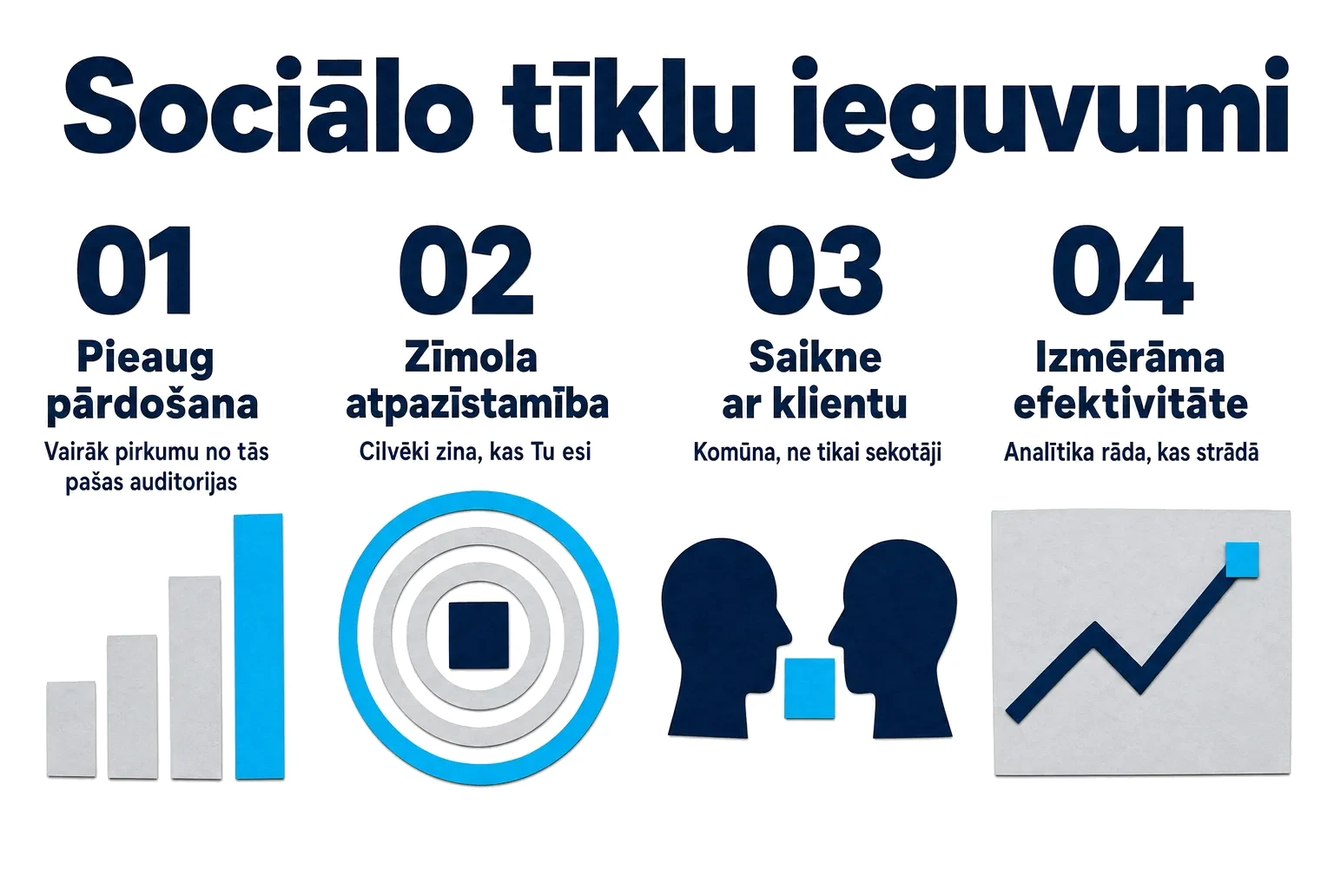
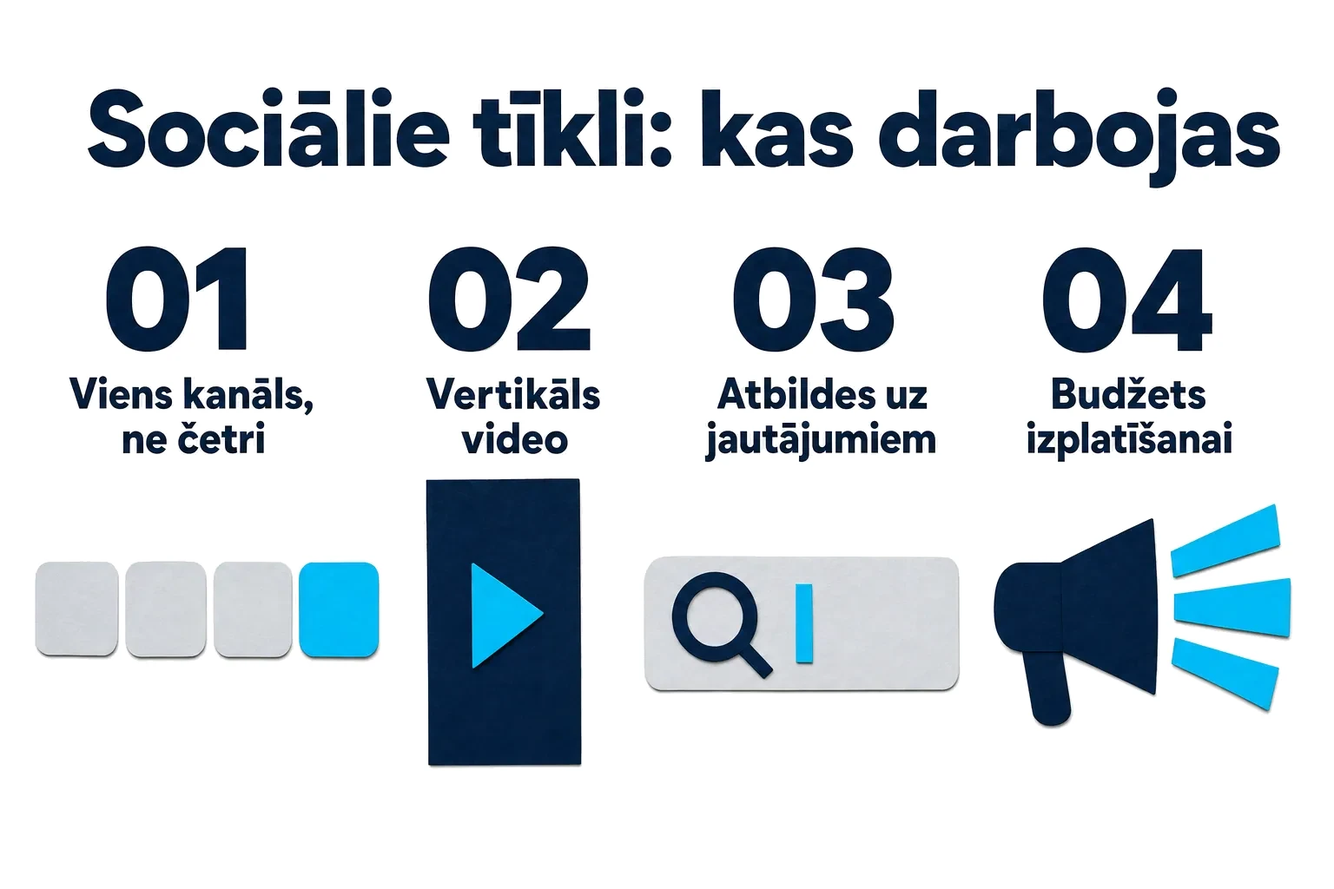
Social media pair rewritten around the reach that no longer exists
Both were written when posting regularly still reached your followers. The
honest 2026 version leads with the opposite: platforms limit organic
distribution on purpose, so a post without budget reaches a fraction even
of the people who chose to follow you, and follower count is a number on a
profile rather than an audience you can use.

socialie-tikli becomes a channel decision: pick ONE network rather than
four half-tended profiles, the three things that still travel without
budget (vertical video, answers to real questions, replying in DMs), and a
monthly minimum that is smaller than most content plans recommend and
larger than most businesses actually do.

vai-manam-biznesam keeps its honest two-sided shape and gets a real answer
of 'not yet': very narrow B2B, trades people search for rather than scroll
past, nobody with hours to spare, and a site that does not convert yet.
Its course link pointed at the general course hub while calling itself the
Facebook and Instagram course; it now goes to the Meta course.

diff --git a/src/posts/socialie-tikli.md b/src/posts/socialie-tikli.md
@@ -2,93 +2,84 @@
 layout: post.njk
 title: "Sociālie tīkli - mārketinga veiksmes atslēga"
 seoTitle: "Sociālie tīkli - mārketinga veiksmes atslēga | Mārketinga Skola"
-description: "Kādēļ sociālie tīkli ir tik plaši izmantoti? Vai Tavam biznesam nepieciešami sociālie tīkli? Uz šiem jautājumiem atbildēsim šajā rakstā."
+description: "Sociālie tīkli 2026. gadā: kāpēc organiskais sasniegums vairs nepietiek, kurš viens kanāls Tev vajadzīgs un kāds ir praktiskais minimums mēnesī."
 date: 2024-03-20
-updated: 2024-10-21
+updated: 2026-09-05
 image: "/img/gen/cover-socialie-tikli.webp"
 legacyImage: "/img/2024/03/16.jpg"
 categories: ["socialo-tiklu-reklama"]
 permalink: "/socialie-tikli/"
-keywords: ["sociālie tīkli", "sociālo tīklu mārketings", "maksas reklāmas", "zīmola atpazīstamība"]
+keywords: ["sociālo tīklu mārketings", "organiskais sasniegums", "Instagram", "Facebook", "vertikāls video"]
 
 ---
 
-Sociālie tīkli ir 21.gadsimta mārketinga fenomens.
+Sociālie tīkli joprojām ir vieta, kur Latvijas uzņēmumi atrod klientus. Mainījies ir veids, kā tas notiek.
 
-Ne velti vairāk nekā puse visu Eiropas Savienības uzņēmumu tos izmanto.
+Vēl pirms dažiem gadiem pietika publicēt regulāri, un daļa sekotāju ierakstus redzēja. Šodien bezmaksas sasniedzamība ir tik maza, ka ieraksts bez apmaksātas izplatīšanas parasti nonāk tikai pie nelielas daļas sekotāju. Sekotāju skaits vairs nav resurss, ko vari droši izmantot. Tas ir tikai skaitlis profilā.
 
-Tiek prognozēts, ka 2025.gadā sociālos tīklus izmantos jau 5,1 miljards cilvēku no visas pasaules populācijas jeb ~8 miljardiem cilvēku.
+Šis raksts ir par to, ko tas nozīmē praksē: kurš kanāls Tev tiešām vajadzīgs, kas vēl darbojas bez budžeta un kur budžets ir neizbēgams.
 
-Skaitļi runā paši par sevi, vai ne?
+## Vai Tavam biznesam vajag sociālos tīklus
 
-Kur gan ir āķis? Kādēļ sociālie tīkli un arī to sniegtā maksas reklāmu iespēja ir tik plaši izmantota? Vai un kāpēc Tavam biznesam nepieciešami sociālie tīkli?
+Godīgā atbilde ir "ne visiem un ne visus kanālus".
 
-Uz šiem jautājumiem atbildēsim šajā rakstā.
+Sociālie tīkli strādā labi, ja Tavu produktu var parādīt, ja pirkuma lēmums ir salīdzinoši ātrs un ja klients ir plaša auditorija. Piemēram, restorāni, skaistumkopšana, e-veikali, kursi, remontdarbi un vietējie pakalpojumi.
 
-## Vai Tavam biznesam nepieciešami sociālie tīkli?
+Tie strādā vājāk, ja pārdod ļoti šauram profesionāļu lokam, ja pārdošanas cikls ir garš un ja lēmumu pieņem vairāki cilvēki. Tad meklētājprogramma, ieteikumi un tieša uzruna parasti dod vairāk. Par šādām situācijām vairāk rakstā [vai manam biznesam nepieciešams sociālo tīklu mārketings](/vai-manam-biznesam-nepieciesams-socialo-tiklu-marketings/).
 
-Vairākumā gadījumu mūsu atbilde būs: **Jā**, Tavam biznesam ir nepieciešama sociālo tīklu izmantošana.
+## Izvēlies vienu kanālu, nevis četrus
 
-Kādi būs izņēmuma gadījumi?
+Biežākā maza uzņēmuma kļūda ir mēģināt būt visur. Rezultāts ir četri pusaizmirsti profili, no kuriem neviens īsti nestrādā.
 
-Sociālo tīklu izmantošanu kā prioritāti sava biznesa izaugsmei **neiesakām** izmantot tiem uzņēmumiem, kas zina, ka atbildes uz šiem diviem jautājumiem nebūs apstiprinošas:
+Praktiskā izvēle Latvijā:
 
-- Vai sociālajos tīklos ir atrodams Tavs mērķa klients?
+- **Instagram** ir pirmā izvēle, ja produktu var parādīt.
+- **Facebook** joprojām ir spēcīgs plašākai un vecākai auditorijai, vietējiem pakalpojumiem un grupām.
+- **TikTok** ir vērts izmantot, ja vari regulāri filmēt īsus video un Tava auditorija ir jaunāka.
+- **LinkedIn** ir piemērots tikai B2B un darbinieku piesaistei.
 
-- Vai ir veikta mērķtirgus izpēte, kas pierāda, ka Tavs produkts vai pakalpojums ir pieprasīts un ka ir vērts investēt tā mārketingā?
+Izvēlies vienu kanālu, kur Tava auditorija tiešām ir, un strādā ar to kārtīgi. Otro pievieno tad, kad pirmais jau dod rezultātu.
 
-Ja uz pirmo jautājumu atbilde ir apstiprinoša, tad (pirms sociālo tīklu kontu izveides) iesakām veikt izpēti un noskaidrot tieši kuri sociālie tīkli ir piesaistījuši Tavu mērķa klientu uzmanību.
+## Kas vēl darbojas bez budžeta
 
-Ir nerakstīts likums mārketinga pasaulē, ko mēs tomēr uzdrošināsimies uzrakstīt: _“Esi tur, kur ir Tavs klients. Ja nebūsi, tad Tavā vietā ātri vien ienāks kāds cits.”_
+Trīs lietas joprojām palīdz sasniegt cilvēkus bez maksas.
 
-Ir liela iespēja, ka Tavs mērķa klients atrodams kādā no pašlaik [pasaulē izmantotākajām](https://umaine.edu/undiscoveredmaine/small-business/resources/marketing-for-small-business/social-media-tools/social-media-statistics-details/) sociālo tīklu platformām: _Facebook, Youtube_ vai _Instagram_. Varbūt arī _TikTok_, ko jau sen vairs neizmanto tikai jaunieši, bet arī vecākas paaudzes auditorija.
+**Īsi vertikāli video.** Tas ir vienīgais formāts, ko platformas joprojām aktīvi rāda cilvēkiem ārpus Taviem sekotājiem. Par to vairāk rakstā [Instagram Reels mārketingam](/instagram-reels-marketingam/).
 
-## Sociālie tīkli kā uzņēmumu vizītkarte
+**Saturs, kas atbild uz reālu jautājumu.** Cilvēki arvien biežāk meklē informāciju tieši sociālajos tīklos, nevis meklētājprogrammā. Ierakstu, kas atbild uz konkrētu jautājumu, var atrast vēl mēnešus vēlāk.
 
-Sociālie tīkli ir ne tikai digitālā mārketinga atslēga, bet arī uzņēmumu vizītkarte. Tas nozīme, ka tā ir vizītkarte ne tikai klientiem, bet arī medijiem, potenciālajiem darbiniekiem un pat konkurentiem.
+**Sarunas komentāros un ziņās.** To nevar viegli palielināt, bet mazam uzņēmumam tieši šeit bieži rodas klienti. Atbilde piecās minūtēs ir vērtīgāka par vēl vienu publikāciju.
 
-Sociālie tīkli paver brīnišķīgu iespēju atainot uzņēmumu sev vēlamā gaismā, piemēram, parādot vērtības, izstāstot zīmola stāstu, parādot sociālās atbildības aktivitātes un vēl, un vēl.. Mēs iesakām attīstīt savu zīmola tēlu sociālajos tīklus jau **tagad**, jo..
-
-Statistika jau vēsta, ka vairāk nekā 50% darba meklētāju, lai uzzinātu vairāk par savu potenciālo darbavietu, vienkārši apskata uzņēmuma sociālo tīklu kontu. Daudzi arī atrod sev vēlamo vakanci tieši caur sociālajiem tīkliem.
-
-Sociālie tīkli var būt pirmais iespaids, ko cilvēks gūst par uzņēmumu, tāpēc ir būtiski šo iespaidu veidot pozitīvu.
-
-## Sociālo tīklu ieguvumi mārketingā
-
-Lūk, vien daži no sociālo tīklu mārketinga ieguvumiem, ko esam paši pieredzējuši, palīdzot klientiem:
-
-- Pieaug pārdošanas apjomi;
-- Palielinās zīmola atpazīstamība;
-- Izveidojas saikne ar klientu, veicinot lojalitāti zīmolam;
-- Ievērojami uzlabojas mārketinga aktivitāšu efektivitāte, jo ar analītikas rīkiem tiek izvērtēti mārketinga rezultāti un veikti nepieciešamie uzlabojumi.
-
-Būtisks trumpis šajos ieguvumos ir **maksas reklāmas**.
-
-{% infographic { id: "info-socialo-tiklu-ieguvumi", title: "Sociālo tīklu ieguvumi", items: [
- { label: "Pieaug pārdošana", text: "Vairāk pirkumu no tās pašas auditorijas." },
- { label: "Zīmola atpazīstamība", text: "Cilvēki zina, kas Tu esi." },
- { label: "Saikne ar klientu", text: "Komūna, ne tikai sekotāji." },
- { label: "Izmērāma efektivitāte", text: "Analītika rāda, kas strādā." }
+{% infographic { id: "info-socialo-tiklu-ieguvumi", title: "Sociālie tīkli: kas darbojas 2026. gadā", items: [
+ { label: "Viens kanāls, ne četri", text: "Divi pusaizmirsti profili nedod neko." },
+ { label: "Vertikāls video", text: "Vienīgais formāts ar organisko sasniegumu." },
+ { label: "Atbildes uz jautājumiem", text: "Cilvēki meklē arī sociālajos tīklos." },
+ { label: "Budžets izplatīšanai", text: "Bez tā redz tikai daļa sekotāju." }
 ] } %}
 
-## Kāpēc maksas reklāmas?
+## Kāpēc maksas reklāma nav izvēle, bet nosacījums
 
-Ja vēlies veicināt pārdošanas apjomus un klientu pieplūdumu, maksas reklāmas ir Tavs risinājums.
+Šī ir daļa, ko negribas dzirdēt, bet tā ir patiesa: sociālo tīklu platformas ir reklāmas uzņēmumi. Tāpēc bezmaksas izplatīšana tajās ir apzināti ierobežota.
 
-Šis risinājums īstenībā piemērots visiem, kuru auditorija atrodama sociālajos tīklos. Tas ir lielisks mārketinga instruments, jo ir izmantojams ar jebkādu budžeta apjomu un ļauj ātri izvērtēt reklāmas efektivitāti.
+Praksē tas nozīmē, ka labs saturs bez budžeta sasniedz tikai dažus, bet tas pats saturs ar nelielu budžetu sasniedz cilvēkus, kuri tiešām var nopirkt. Nav jāsāk ar lielām summām. Desmit līdz divdesmit eiro dienā vienam mērķim Latvijā ir reāls sākums.
 
-Ne velti 2023.gadā sociālo tīklu maksas reklāmu izdevumi sastādījuši 270 miljardus ASV dolāru un mārketinga pētnieki prognozē, ka 2024.gadā jau tiks pārsniegts 300 miljardu slieksnis.
+Svarīgi arī tas, ka maksas reklāma ļauj mērīt rezultātu. Bezmaksas publikācija parāda patīk atzīmes un komentārus. Reklāma parāda, cik maksāja viens klients. Tikai otrais skaitlis palīdz pieņemt lēmumus.
 
-Sociālie tīkli, reģistrējot lietotājus, ievāc par tiem noderīgu informāciju, kā vecums, dzimums, dzīvesvieta, intereses, un šie dati nodrošina to, ka ar maksas reklāmām var viegli sasniegt savu mērķa klientu.
+Kā to uzstādīt no nulles, aprakstīts rakstā [Facebook reklāmas: kā reklamēt savu biznesu internetā](/facebook-reklamas-izstrade/), bet budžeta puse rakstā [cik maksā reklāma Facebook](/cik-maksa-reklama-facebook/).
 
-Problēma gan rodas brīdī, kad maksas reklāmu dažādās detaļas raisa apjukumu un pietrūkst zināšanu, lai šīs reklāmas veidotu efektīvas.
+## Praktiskais minimums mēnesī
 
-Bieži vien šī apjukuma un zināšanu trūkuma dēļ no maksas reklāmām netiek gūta peļņa.
+Ja resursu ir maz, dari šo un neko vairāk:
 
-Lai tas nenotiktu ar Tevi, rosinām veltīt laiku zināšanu paplašināšanai, apgūstot maksas reklāmas. Tā būs vērtīga ilgtermiņa investīcija biznesa izaugsmē.
+- viens kanāls;
+- četri līdz astoņi ieraksti mēnesī, no kuriem vismaz puse ir vertikāli video;
+- viena aktīva reklāmas kampaņa ar trim līdz pieciem atšķirīgiem materiāliem;
+- atbildes uz ziņām tajā pašā dienā.
 
-## Mārketinga skolas piedāvājums
+Tas ir mazāk, nekā iesaka lielākā daļa satura plānu, un vairāk, nekā izdara lielākā daļa uzņēmumu.
 
-[Sociālie tīkli ir mārketinga atslēga](/vai-manam-biznesam-nepieciesams-socialo-tiklu-marketings/), kas uzņēmumiem, kuri spēj sociālos tīklus profesionāli izmantot savā labā, palielina peļņu, klientu skaitu un atpazīstamību. Esi viens no viņiem!
+## Nākamais solis
 
-Mēs Mārketinga skola iesakām Tev apsvērt iespēju pieteikties mūsu [Facebook un Instagram reklāmas kursam](/digitala-marketinga-kursi/), kur soli pa solim apgūsi kampaņu uzstādīšanu, mērķauditorijas atlasi un rezultātu analīzi.
+Ja gribi iemācīties reklāmas daļu pats, strādājot savā kontā, tam ir domāts [Meta reklāmas kurss](/meta-reklamas-kurss/): trīs stundas tiešsaistē, mazā grupā.
+
+Ja gribi, lai kampaņas veido un uztur kāds cits, apskati [Facebook un Instagram reklāmas pakalpojumu](/facebook-reklama/). Ja vēl neesi drošs, kurš kanāls Tavā situācijā ir pareizais, to var izrunāt [individuālā konsultācijā](/marketinga-konsultacijas/).

diff --git a/src/posts/vai-manam-biznesam-nepieciesams-socialo-tiklu-marketings.md b/src/posts/vai-manam-biznesam-nepieciesams-socialo-tiklu-marketings.md
@@ -2,9 +2,9 @@
 layout: post.njk
 title: "Vai manam biznesam nepieciešams sociālo tīklu mārketings?"
 seoTitle: "Vai manam biznesam nepieciešams sociālo tīklu mārketings? | Mārketinga Skola"
-description: "Vai biznesam nepieciešams sociālo tīklu mārketings? Noskaidro, kādas priekšrocības paver sociālo tīklu izmantošana!"
+description: "Godīga atbilde uz jautājumu, vai Tavam biznesam vajag sociālo tīklu mārketingu: kad tas atmaksājas, kad nauda labāk der citur un ar ko sākt."
 date: 2022-03-08
-updated: 2024-10-21
+updated: 2026-09-05
 image: "/img/gen/cover-vai-manam-biznesam-nepieciesams-socialo-tiklu-marketings.webp"
 legacyImage: "/img/2022/03/6.jpg"
 categories: ["socialo-tiklu-reklama"]
@@ -13,89 +13,70 @@ keywords: ["sociālo tīklu mārketings", "sociālie tīkli biznesam", "analīti
 
 ---
 
-Daudziem uzņēmējiem šķiet, ka sociālo tīklu mārketings nav piemērots viņu uzņēmumam, jo sociālos tīklus taču izmanto tikai jaunieši.
+Uz šo jautājumu parasti atbild ar "protams, jā". Godīga atbilde ir garāka, un dažiem uzņēmumiem tā ir "nē, vismaz ne tagad".
 
-Tas ir absolūts mīts, kuru vēlamies apgāzt.
+Sociālo tīklu mārketingam vajag divus resursus: laiku saturam un budžetu izplatīšanai. Ja nav ne viena, ne otra, rezultāts ir profils, kas izskatās pamests. Tas ir sliktāk nekā nekāds profils.
 
-**Pirmkārt,** mūsdienās sociālos medijus izmanto pilnībā visi – pat mājdzīvniekiem mēdz būt konti sociālājos tīklos.
+Šis raksts palīdzēs saprast, kurā pusē Tu esi.
 
-**Otrkārt,** daudzi uzņēmēji vienkārši negrib atzīt, ka sociālo tīklu mārketings viņiem ir pārāk sarežģīts un neizprotams digitālā mārketinga rīks.
+## Kas ir sociālo tīklu mārketings šodien
 
-**Treškārt,** uzņēmumam ir nepieciešama precīzi izplānota sociālo tīklu mārketinga stratēģija, lai sasniegtu savus uzņēmējdarbības mērķus. Vienaldzība un vienkārša cerība, ka tiks sasniegti vēlamie mārketinga rezultāti nav efektīvs veids, kā attīstīt mārketingu.
+Tas vairs nav "publicēt regulāri un audzēt sekotājus". Platformas apzināti ierobežo organisko sasniedzamību, tāpēc publikācija bez budžeta parasti sasniedz tikai nelielu daļu pat no Taviem sekotājiem.
 
-Šajā bloga rakstā vēlamies Tevi iepazīstināt ar sociālo tīklu mārketinga pasauli un parādīt tās gaišo pusi un arī tumšo, jo tāda, gluži kā visiem digitālā mārketinga rīkiem, pastāv arī sociālajiem tīkliem.
+Praksē sociālo tīklu mārketings sastāv no trim daļām: satura, maksas izplatīšanas un sarunām ar cilvēkiem, kuri atsaucas. Ja kādas daļas trūkst, pārējās strādā daudz vājāk.
 
-## Kas ir sociālo tīklu mārketings?
+## Kad atbilde ir "jā"
 
-Pavisam vienkārši: sociālo tīklu mārketings ir sociālo mediju platformu izmantošana, lai reklamētu un tirgotu uzņēmuma produktus un pakalpojumus.
+Sociālo tīklu mārketings atmaksājas, ja vismaz trīs no šiem apgalvojumiem par Tevi ir patiesi:
 
-Sociālo tīklu mārketings ir patiešām efektīvs veids, kā dažāda lieluma uzņēmumiem sasniegt potenciālos un jau esošos klientus, jo teju visi mūsdienās izmanto sociālos tīklus.
+- produktu vai rezultātu var parādīt attēlā vai video;
+- pirkuma lēmumu cilvēks pieņem dienās, nevis mēnešos;
+- Tavi klienti ir plaša auditorija, nevis šaurs profesionāļu loks;
+- vari atvēlēt vismaz desmit līdz divdesmit eiro dienā reklāmai;
+- kāds uzņēmumā spēj katru nedēļu uzfilmēt dažus īsus video;
+- uz ziņām spējat atbildēt tajā pašā dienā.
 
-## Sociālo tīklu mārketinga gaišā puse
+Ja piekrīti gandrīz visiem punktiem, šis kanāls Tev der. Ar ko sākt, aprakstīts rakstā [sociālie tīkli: mārketinga veiksmes atslēga](/socialie-tikli/).
 
-### Popularitāte
+## Kad atbilde ir "vēl ne"
 
-Sociālo plašsaziņas līdzekļu lietotāju kopējais skaits katru gadu pieaug, un paredzams, ka to skaits turpinās palielināties. Lai skaitļi runā paši par sevi:
+Ir situācijas, kurās nauda un laiks labāk atmaksājas citur.
 
-Instagram ir vairāk kā **2 miljardi** aktīvu lietotāju katru mēnesi
+**Ja pārdod ļoti šauram lokam.** Piecdesmit potenciālie klienti Latvijā nav auditorija, ko meklēt ziņu plūsmā. Tieša uzruna un ieteikumi dod vairāk.
 
-Facebook ir populārākā sociālo mediju platforma ar **2,9 miljardiem** lietotāju
+**Ja klients Tevi meklē pats.** Santehniķis, jurists, autoserviss. Cilvēks ar problēmu iet uz meklētāju, nevis ritina Instagram. Sāc ar [SEO](/kas-ir-seo/) un [Google reklāmu](/google-reklama-2025/).
 
-LinkedIn ir aptuveni **950 miljoni** lietotāju
+**Ja nav neviena, kas to darīs.** Sociālo tīklu profils nav vienreizējs projekts. Ja neviens nevar tam veltīt dažas stundas nedēļā, labāk to nesākt vispār.
 
-Sociālo tīklu popularitātes dēļ:
+**Ja mājaslapa vēl nepārdod.** Reklāma tikai ātrāk atved cilvēkus uz lapu, kas nekonvertē. Vispirms sakārto galamērķi, pēc tam domā par plūsmu.
 
-- Pieaug pārdošanas apjomi
-- Palielinās zīmola atpazīstamība
-- Pieaug gan uzticamu, gan jaunu klientu skaits
-- Var viegli uzrunāt savu mērķauditoriju, izmantojot, piemēram, Facebook reklāmas, ar kurām var precīzi mērķēt uz saviem potenciālajiem klientiem
-
-### Analītikas rīki
-
-Sociālo tīklu mārketings paver iespēju izsekot tam, cik efektīva ir bijusi reklāmas kampaņa un saprast, vai šāda reklāma un sociālo tīklu mārketinga stratēģija strādās arī turpmāk.
-
-Daudzās sociālo mediju platformās ir jau iebūvēti analītikas rīki. Izmantojot Instagram ieskatus _(insights)_, ir iespējams redzēt savu sekotāju demogrāfisko sadalījumu, kas ietver vecumu, dzimumu, atrašanās vietu un aktīvākās stundas, kas pavadītas sociālajos medijos.
-
-### Saikne ar klientu
-
-Sociālo tīklu mārketings ir brīnišķīga iespēja, kā veidot savu sekotāju komūnu digitālajā vidē, iepazīt tuvāk savu mērķauditoriju un attiecīgi palielināt arī klientu apmierinātību.
-
-Daudzi uzņēmumi, piemēram, Instagramā izmanto storiju funkcijas, lai veidotu saikni ar klientiem. Storijos uzņēmumi sekotājiem atbild uz dažādiem jautājumiem vai parāda, piemēram, produktu ražošanas procesu, sniedzot vērtīgu un neformālu ieskatu sava uzņēmuma darbībā.
-
-Protams, uzņēmumi arī izmanto to, ka sociālajos tīklos var uzsākt komunikāciju ar saviem klientiem. Uzņēmumi var uzdot dažādus jautājumus saviem sekotājiem, un tas ļoti palīdz veidot ne tikai saikni ar pircēju, bet arī uzlabo uzņēmuma darbību. Kāpēc? Tiešo klientu atbildes palīdz veikt dažādus secinājumus, piemēram, saprast, ko uzlabot produktā, lai tas klientiem patiktu vēl vairāk.
-
-## Sociālo tīklu mārketinga tumšā puse
-
-### Sociālo tīklu pamatideja nav bizness
-
-Sociālie tīkli ir veidoti ar mērķi nepiespiestā veidā veidot komunikāciju starp cilvēkiem. To pamatideja ir atslēgties no ikdienas steigas jeb
-
-- tērzēt ar draugiem
-- apskatīt saistošas publikācijas _(postus)_
-- sekot cilvēkiem, kuri ir pazīstami vai šķiet interesanti
-
-Reklāma noteikti nav tas, ko cilvēki vēlētos sastapt sociālajos tīklos, taču tā mūsdienās ir realitāte. Tagad starp sirsnīgām bildēm, ko publicē mūsu ģimene vai draugi, ir redzami sponsorēti ieraksti un reklāmas, kas, algoritmu skatījumā, mums varētu patikt.
-
-Ja vēlies attīstīt sociālo tīklu mārketingu, noteikti atceries, kāpēc cilvēki izmanto sociālos tīklus. Tādējādi varēsi veidot pielāgotākās reklāmas.
-
-### Nepieciešamība pastāvīgi iesaistīties un būt aktīvam
-
-Sociālo tīklu mārketings ir ļoti laikietilpīgs process, jo
-
-- ar reklāmas vai publikācijas izvietošanu sociālajos tīklos noteikti nepietiek: šai reklāmai ir pastāvīgi jāseko līdzi un jāanalizē analītika
-- sociālo tīklu tendences mainās gaismas ātrumā, ir jāvelta laiks šo tendenču izpētei
-- ir pastāvīgi jāpublicē jauns saturs sociālajos tīklos, lai nepazaudētu sekotāju interesi uzņēmumā
-
-Sociālo tīklu mārketings ir visfektīvākais veids, kā palielināt zīmola atpazīstamību, pārdošanas apjomus un klientu skaitu, taču tajā pašā laikā tas ir ļoti sarežģīts un laikietilpīgs veids, kā šo visu sasniegt.
-
-{% infographic { id: "info-socialo-tiklu-abas-puses", title: "Sociālo tīklu mārketings: abas puses", items: [
- { label: "Popularitāte", text: "Lietotāju skaits aug katru gadu." },
- { label: "Analītikas rīki", text: "Var izmērīt, vai atmaksājās." },
- { label: "Saikne ar klientu", text: "Komūna ap zīmolu." },
- { label: "Pamatideja nav bizness", text: "Cilvēki nāk atslēgties, ne pirkt." },
- { label: "Prasa pastāvīgu aktivitāti", text: "Viena publikācija neko nemaina." }
+{% infographic { id: "info-socialo-tiklu-abas-puses", title: "Vai sociālie tīkli ir Tavs kanāls", items: [
+ { label: "Produktu var parādīt", text: "Attēls vai video pasaka vairāk par tekstu." },
+ { label: "Ātrs lēmums", text: "Cilvēks izlemj dienās, ne mēnešos." },
+ { label: "Ir budžets izplatīšanai", text: "Bez tā satura neviens neredz." },
+ { label: "Ir, kas atbild", text: "Klienti rodas ziņās, ne publikācijās." }
 ] } %}
 
-## Mārketinga skolas piedāvājums
+## Godīgi par trūkumiem
 
-Ja esi gatavs veltīt ļoti daudz laika sava uzņēmuma mārketinga attīstībai, tad, mūsuprāt, sociālo tīklu mārketings varētu būt Tava veiksmes atslēga! Digitālās reklāmas aģentūra Mārketinga Skola veido un pārvalda Meta reklāmas kampaņas, tāpēc, ja domā par sadarbību, piesakies bezmaksas 20 minūšu iepazīšanās zvanam, [uzraksti mums](/sazinies/). Ja gribi šo jomu apgūt pats, apskati [Meta reklāmas kursu](/meta-reklamas-kurss/), pēc kura spēsi saprast sociālo tīklu reklāmas pamatus un satura veidošanas pamatprincipus.
+Trīs lietas, ko pārdevēji reti piemin.
+
+**Sekotāju skaits nav rezultāts.** Desmit tūkstoši sekotāju, no kuriem publikāciju redz daži simti, biznesam nozīmē mazāk nekā piecsimt cilvēku saraksts e-pastā. Par to vairāk rakstā [e-pasta mārketings](/epasta_marketings/).
+
+**Konts Tev nepieder pilnībā.** Platforma var mainīt noteikumus, samazināt sasniedzamību vai bloķēt profilu. Tāpēc kontaktus ir vērts pārvest tur, kur tie pieder Tev: e-pasta sarakstā vai mājaslapā.
+
+**Tas prasa pastāvību.** Viena publikācija neko nemaina, un mēneša pārtraukums atmet atpakaļ sākumpunktā. Tas ir ilgtermiņa darbs, nevis kampaņa.
+
+## Ja atbilde ir "jā", ar ko sākt
+
+Nesāc ar satura plānu. Sāc ar diviem soļiem.
+
+Pirmkārt, izvēlies vienu kanālu, kur Tava auditorija tiešām ir, un aizmirsti pārējos. Otrkārt, uzfilmē trīs īsus vertikālus video ar telefonu un palaid tiem nelielu reklāmas budžetu. Divās nedēļās redzēsi, vai cilvēki reaģē. Tas maksās mazāk nekā mēnesis satura plānošanas.
+
+Kampaņas puse aprakstīta rakstā [Facebook reklāmas: kā reklamēt savu biznesu internetā](/facebook-reklamas-izstrade/).
+
+## Nākamais solis
+
+Ja gribi šo jomu apgūt pats, apskati [Meta reklāmas kursu](/meta-reklamas-kurss/): trīs stundas tiešsaistē, kur kampaņu saliekam kopā ar Tavu kontu.
+
+Ja gribi, lai kampaņas veido un uztur kāds cits, apskati [Facebook un Instagram reklāmas pakalpojumu](/facebook-reklama/). Ja neesi drošs, vai šis kanāls Tavā situācijā vispār ir pareizais, tieši to var izrunāt [individuālā konsultācijā](/marketinga-konsultacijas/).
